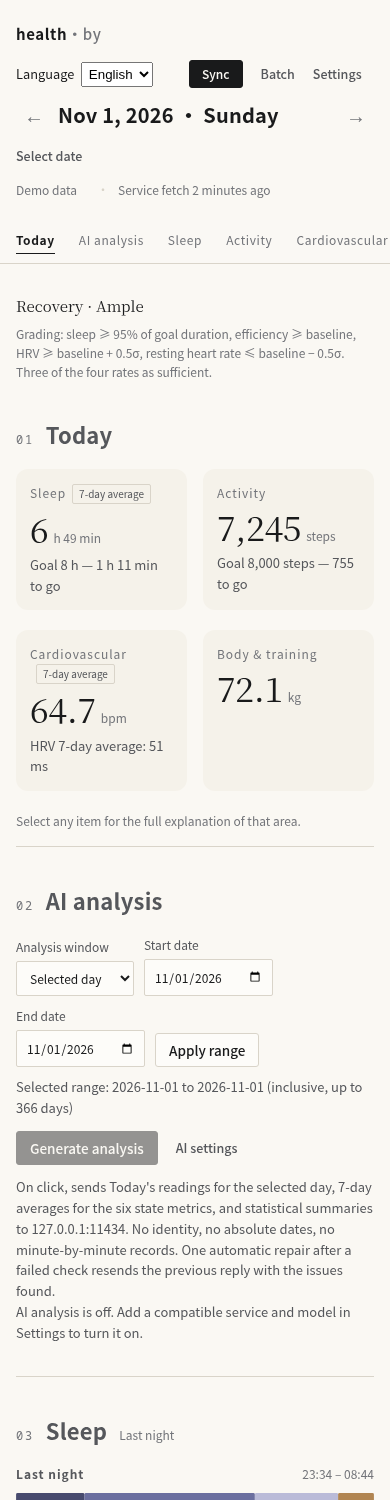
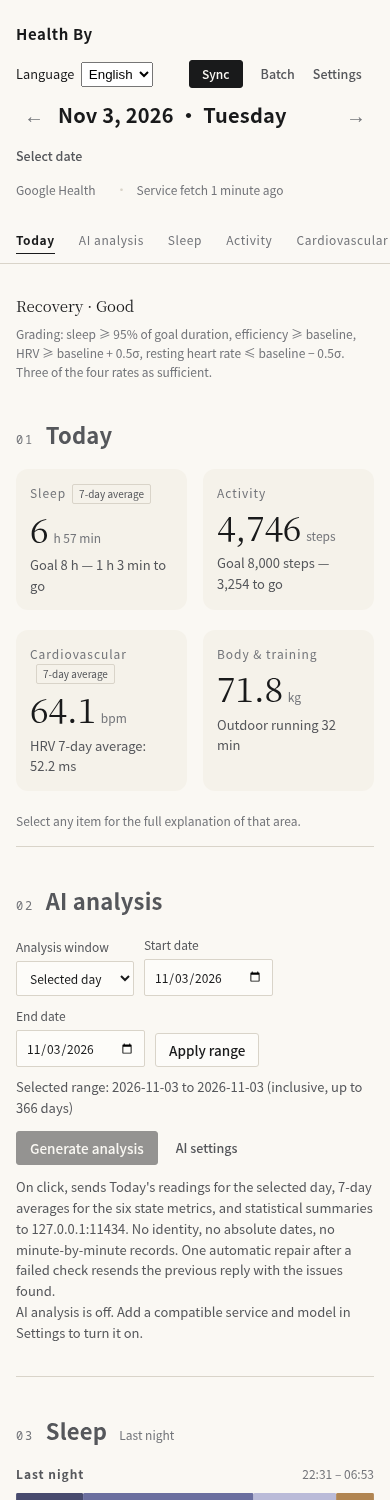
docs: rebuild screenshots from the development dataset

diff --git a/devtools/make_dev_data.py b/devtools/make_dev_data.py
@@ -19,6 +19,7 @@ from health_by import db, storage
 from health_by.config import Config
 from health_by.engine import Engine
 from health_by.providers import PROVIDERS, ensure_builtin_providers
+from health_by.secrets import SecretStore
 from health_by.util import iso_range, iso_today
 
 from devtools.gen_demo_data import SyntheticProvider
@@ -57,6 +58,16 @@ def build(out_dir: Path, days: int) -> int:
                 conn.execute("UPDATE days SET data = ? WHERE date = ?",
                              (json.dumps(snapshot, ensure_ascii=False), date))
         conn.commit()
+        # 页头会读 credentials 判断"是否已连接"。开发库放一份占位凭据，
+        # 否则截图和页面顶上会一直挂着 "Google Health not connected"。
+        if storage.load_credentials_raw(conn, shape) is None:
+            store = SecretStore(cfg.data_dir / "secret.key")
+            storage.save_credentials_raw(conn, shape, store.encrypt_json({
+                "client_id": "dev-placeholder.apps.googleusercontent.com",
+                "client_secret": "dev-placeholder",
+                "tokens": {"refresh_token": "dev-placeholder"},
+            }))
+            conn.commit()
         print(f"{ok}/{len(results)} days written to {cfg.db_path}")
         return 0 if ok else 1
     finally:
